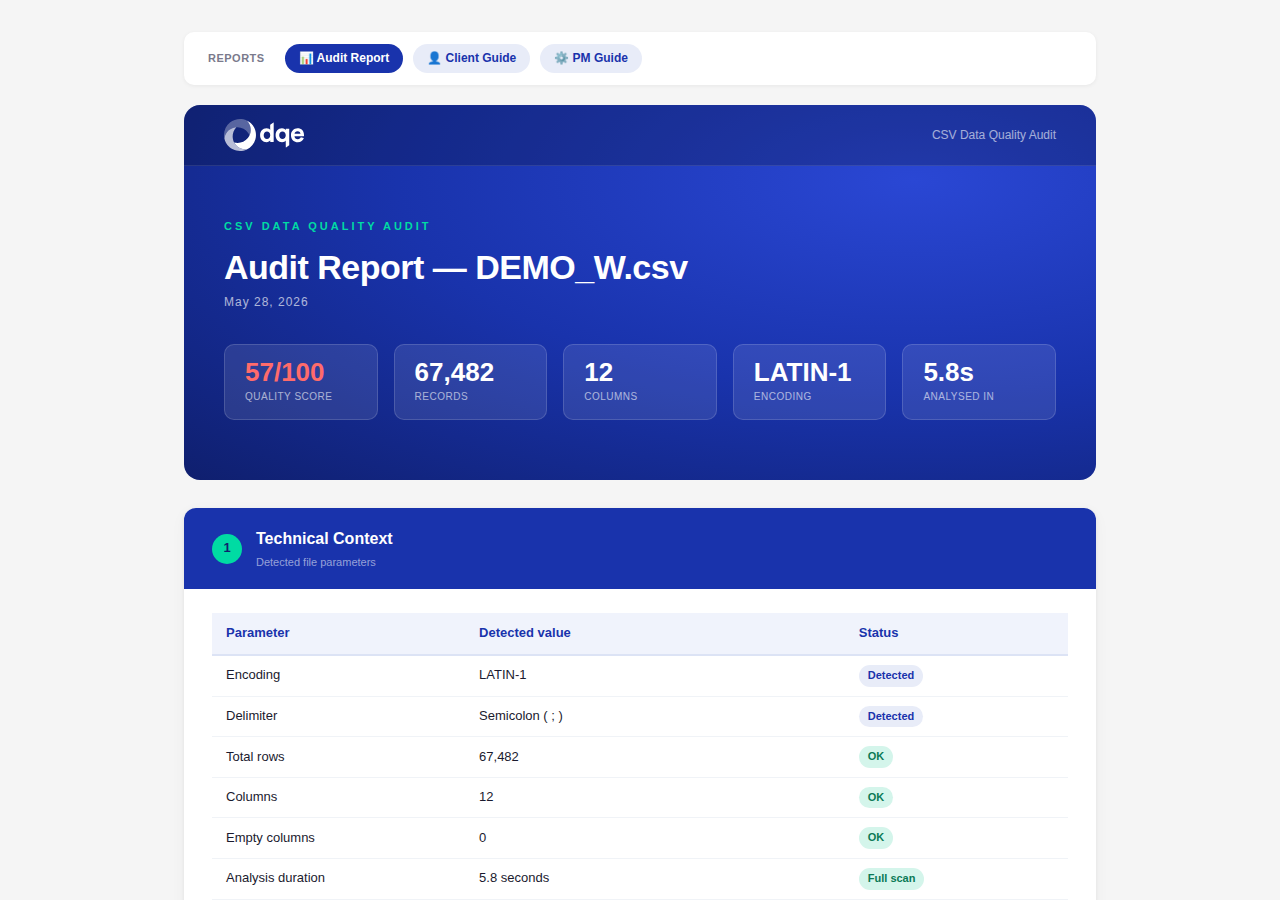
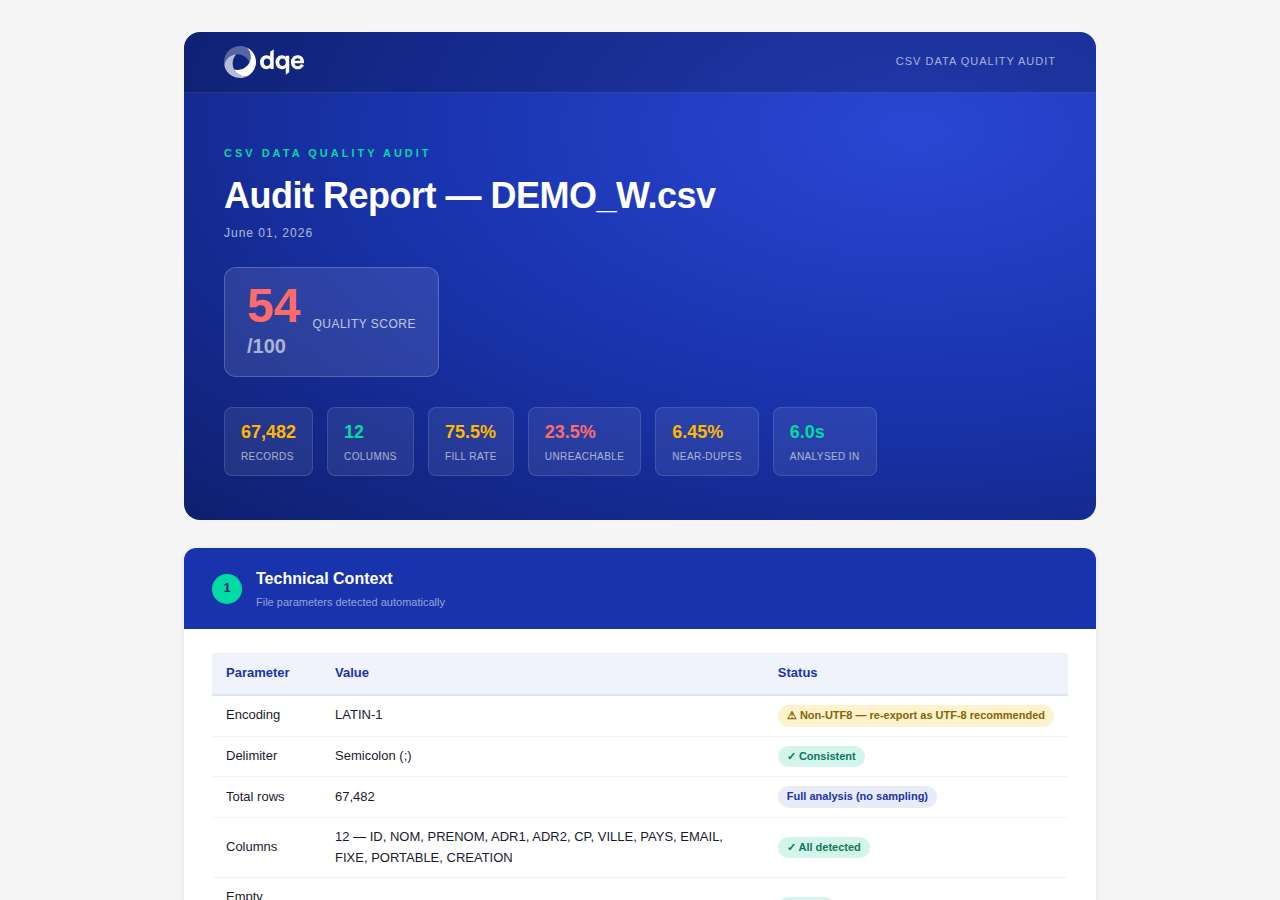
docs: update README and screenshots for v2.2.0
- Bump version badge 2.1.0 → 2.2.0
- Remove client guide from all documentation (reports, options, output files, screenshots table)
- Document --pm flag: quick start examples, skills table, dedicated Options section
- Output files section: 1 file by default, 2 with --pm
- Screenshots table: 2 columns (Audit + PM) instead of 3 — client guide removed
- Refresh screenshot_audit_en.png and screenshot_pm_en.png with new report format
  (Next Steps + CTA in audit, nav-bar with 2 links in PM guide)
- "The 3 reports" → "The reports"; audit report description updated with Next Steps + CTA

diff --git a/README.md b/README.md
@@ -4,13 +4,13 @@
 
 # dqe-quality: Data Quality Audit Plugin for Claude Code
 
-> **Growing suite of data quality tools for Claude Code by [DQE Software](https://github.com/DQE-SOFTWARE).** Currently includes 1 audit skill analysing 6 dimensions and generating 3 standalone HTML reports. More skills coming.
+> **Growing suite of data quality tools for Claude Code by [DQE Software](https://github.com/DQE-SOFTWARE).** Currently includes 1 audit skill analysing 6 dimensions and generating up to 2 standalone HTML reports. More skills coming.
 >
 > **Note:** the plugin is named `dqe-quality` in the marketplace. The GitHub repository is named `claude-quality`.
 
 [![License: MIT](https://img.shields.io/badge/License-MIT-yellow.svg)](LICENSE)
 [![Claude Code](https://img.shields.io/badge/Claude_Code-Plugin-blue)](https://claude.ai/code)
-[![Version](https://img.shields.io/badge/version-2.1.0-brightgreen)](https://github.com/DQE-SOFTWARE/claude-quality/releases)
+[![Version](https://img.shields.io/badge/version-2.2.0-brightgreen)](https://github.com/DQE-SOFTWARE/claude-quality/releases)
 [![Python](https://img.shields.io/badge/Python-stdlib_only-blue)](https://www.python.org/)
 [![No dependencies](https://img.shields.io/badge/dependencies-none-brightgreen)](#requirements)
 [![Zero-copy](https://img.shields.io/badge/data-zero--copy-blueviolet)](#who-this-is-for)
@@ -18,8 +18,8 @@
 Analyse CSV files across the 6 DQE quality dimensions and generate standalone branded HTML reports — directly from Claude Code. No pip installs, no API keys, no setup. **Your data never leaves your machine.**
 
 > **Why dqe-quality?**
-> - Drop a CSV, get 3 professional reports in under 10 seconds
-> - Audit report for engineers, client guide for stakeholders, PM guide for your team
+> - Drop a CSV, get a professional audit report in under 10 seconds
+> - Audit report includes Next Steps + CTA; add `--pm` for an internal project manager guide
 > - Multilingual output: English, French, German, Spanish — one flag away
 > - **Zero-copy** — your data never leaves your machine, everything runs locally
 
@@ -32,7 +32,7 @@ Analyse CSV files across the 6 DQE quality dimensions and generate standalone br
 - [Quick start](#quick-start)
 - [Skills](#skills)
 - [The 6 dimensions](#the-6-dimensions)
-- [The 3 reports](#the-3-reports)
+- [The reports](#the-reports)
 - [Options](#options)
 - [Output files](#output-files)
 - [Screenshots](#screenshots)
@@ -47,7 +47,7 @@ Analyse CSV files across the 6 DQE quality dimensions and generate standalone br
 
 ***Data engineers and analysts*** who need a fast, reproducible quality baseline on any CSV before loading it into a pipeline or CRM.
 
-***Project managers and consultants*** who need ready-to-share deliverables — a client-facing report and an internal treatment plan — without opening a BI tool.
+***Project managers and consultants*** who need ready-to-share deliverables — an audit report with actionable next steps and, optionally, an internal treatment plan — without opening a BI tool.
 
 ***DQE Software teams*** who audit client data files and need branded, multilingual reports that tie findings directly to DQE service recommendations.
 
@@ -134,22 +134,29 @@ rm install.sh
 
 # Windows path (auto-converted to WSL)
 /dqe-audit "C:\Users\demo\data\export.csv" --lang=de
+
+# Audit + internal PM guide
+/dqe-audit ~/data/clients.csv --pm
+
+# French audit + PM guide
+/dqe-audit ~/data/clients.csv --lang=fr --pm
 ```
 
-Three HTML files are written next to the source CSV within seconds.
+The audit report is written next to the source CSV within seconds. Add `--pm` to also generate the project manager guide.
 
 ---
 
 ## Skills
 
-### `/dqe-audit <path/to/file.csv> [--lang=fr|en|us|de|es]`
+### `/dqe-audit <path/to/file.csv> [--lang=fr|en|us|de|es] [--pm]`
 
-Runs a full data quality audit on a CSV file and generates 3 standalone HTML reports.
+Runs a full data quality audit on a CSV file and generates 1 or 2 standalone HTML reports.
 
 | Argument | Description |
 |---|---|
 | `path/to/file.csv` | Path to the CSV file — relative, absolute, or Windows format |
 | `--lang=XX` | Report language: `en` (default), `us` (alias for en), `fr`, `de`, `es` |
+| `--pm` | Also generate the internal Project Manager guide (off by default) |
 
 ---
 
@@ -208,38 +215,29 @@ The engine detects cases where the city name in the city column contradicts the 
 | 2 | **Invalid dates** | Format errors, future dates, impossible values, mixed formats |
 | 3 | **Duplicates** | Exact duplicates, near-duplicates (name+email, name+address) |
 | 4 | **Anomalies** | Statistical outliers, generic values (null, test, xxx…), digits in text fields |
-| 5 | **Broken relationships** | Postal code format per country (FR/DE/ES/US), ZIP/city mismatches, unreachable contacts (no email, no phone) |
+| 5 | **Broken relationships** | Postal code format per country (FR/DE/ES/US), ZIP/city mismatches, unreachable contacts (no email, no phone), email with missing identity |
 | 6 | **Format inconsistencies** | Mixed phone formats, inconsistent casing, type heterogeneity |
 
 ---
 
-## The 3 reports
+## The reports
 
-### 📊 Audit Report — technical
+### 📊 Audit Report — always generated
 
-Full technical analysis for data engineers and analysts.
+Full technical analysis for data engineers, analysts, and stakeholders.
 
 - Quality score (0–100) with colour-coded rating
 - Column profiling: detected type, fill rate, dominant value type
 - Executive summary with 6 dimension cards
-- Detailed per-dimension analysis with issue lists and counts
+- Detailed per-dimension analysis: complete anomaly table per column, all relationship checks (including unreachable contacts, email with missing identity), full format breakdown
 - DQE service recommendations based on findings
 - Conclusion
+- **Next Steps** — numbered action list generated from actual findings, with exact counts and business framing
+- **Contact DQE Software** CTA block
 
-### 👤 Client Guide — business
+### ⚙️ Project Manager Guide — generated with `--pm`
 
-Business-oriented report for the end client. No technical jargon.
-
-- Key metrics at a glance: score, unreachable contacts %, duplicate %
-- Score gauge with business impact explanation
-- 6 dimensions in plain language with concrete impact statements
-- Business impact table: problem / estimated volume / activity impact / priority
-- Next steps checklist
-- DQE contact CTA
-
-### ⚙️ Project Manager Guide — internal
-
-Advanced technical document for DQE teams.
+Advanced technical document for DQE internal teams. Only produced when `--pm` is passed.
 
 - Detected parameters: encoding, delimiter, row/column counts, analysis mode
 - Full column schema with top values and type distribution
@@ -265,32 +263,49 @@ Controls the language of all generated HTML reports. Default: `en`.
 | `de` | German | |
 | `es` | Spanish | |
 
+### `--pm` — Project Manager guide
+
+When passed, generates the internal Project Manager guide in addition to the audit report. The two files link to each other via a shared navigation bar.
+
+```bash
+# Audit only (default)
+/dqe-audit clients.csv
+
+# Audit + PM guide
+/dqe-audit clients.csv --pm
+```
+
 ---
 
 ## Output files
 
-Three HTML files are written next to the source CSV:
+By default, one HTML file is written next to the source CSV:
 
 ```
 <basename>_dqe_audit_YYYYMMDD_<lang>.html
-<basename>_dqe_client_guide_YYYYMMDD_<lang>.html
+```
+
+With `--pm`, a second file is also generated:
+
+```
+<basename>_dqe_audit_YYYYMMDD_<lang>.html
 <basename>_dqe_pm_guide_YYYYMMDD_<lang>.html
 ```
 
-The three reports link to each other via a shared navigation bar.
+The two reports link to each other via a shared navigation bar.
 
 **Collision guard:** if a file with the same name already exists, a numeric suffix is appended automatically:
 ```
-clients_dqe_audit_20260528_en (2).html
+clients_dqe_audit_20260601_en (2).html
 ```
 
 ---
 
 ## Screenshots
 
-| 📊 Audit Report | 👤 Client Guide | ⚙️ PM Guide |
-|---|---|---|
-| ![Audit Report](docs/screenshots/screenshot_audit_en.png) | ![Client Guide](docs/screenshots/screenshot_client_en.png) | ![PM Guide](docs/screenshots/screenshot_pm_en.png) |
+| 📊 Audit Report | ⚙️ PM Guide |
+|---|---|
+| ![Audit Report](docs/screenshots/screenshot_audit_en.png) | ![PM Guide](docs/screenshots/screenshot_pm_en.png) |
 
 ---
 

diff --git a/skills/dqe-audit/SKILL.md b/skills/dqe-audit/SKILL.md
@@ -5,7 +5,7 @@ user-invokable: true
 argument-hint: "<path/to/file.csv> [--lang=fr|en|us|de|es] [--pm]"
 metadata:
   author: DQE Software
-  version: "2.1.0"
+  version: "2.2.0"
   category: data-quality
 ---
 